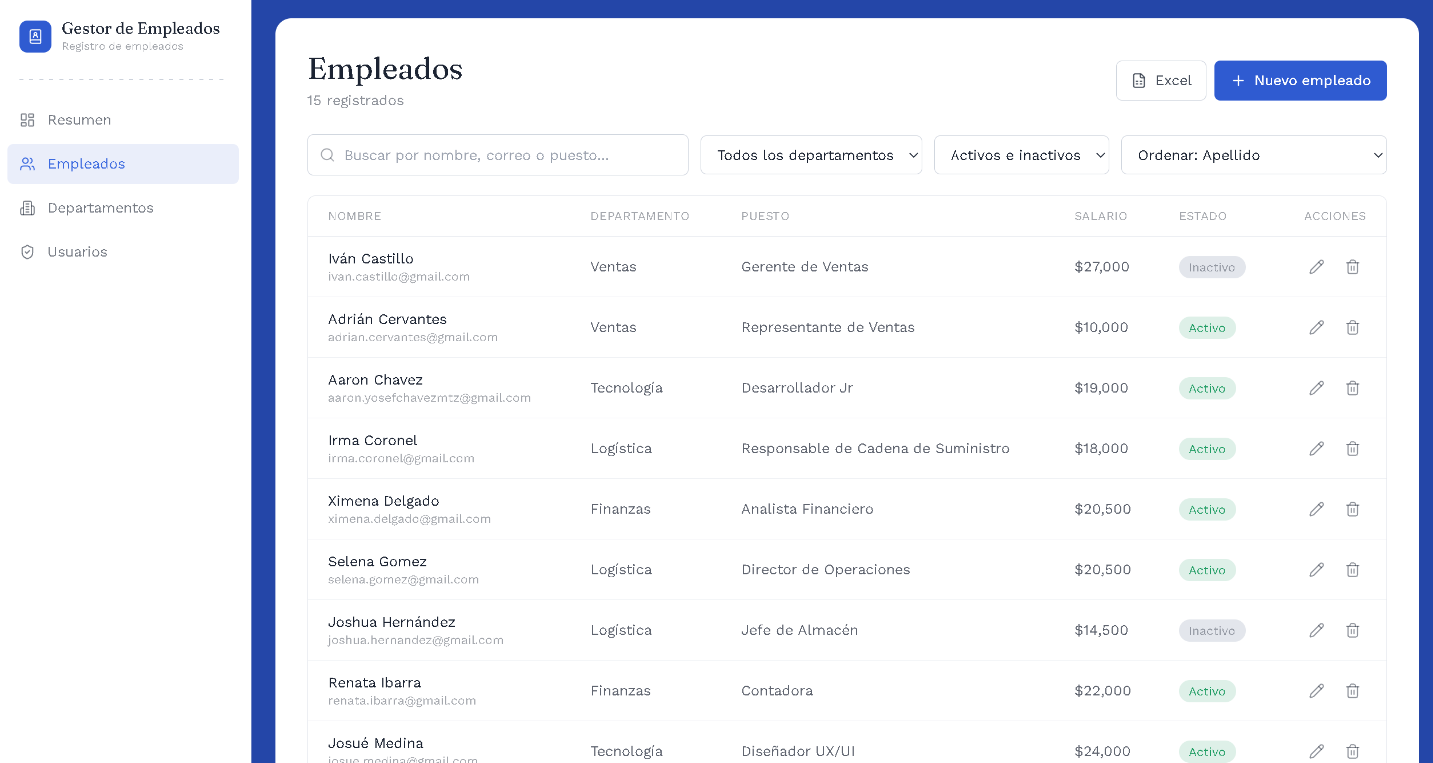
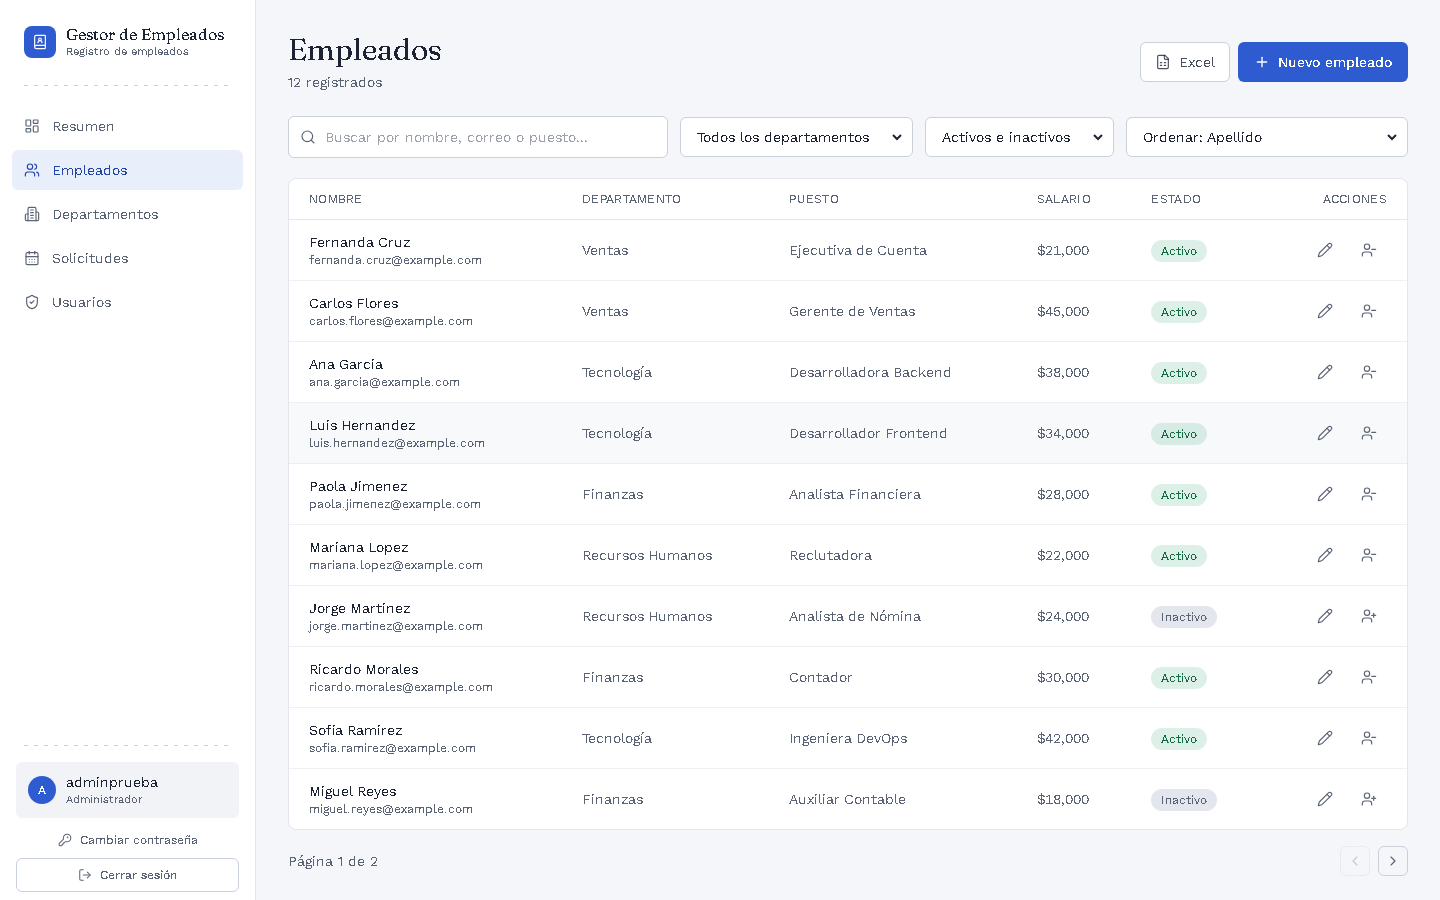
docs: actualiza las capturas del README con la versión actual
- Capturas nuevas de la demo publicada (diseño neutro, cuentas de demo
  actuales); las anteriores mostraban la contraseña antigua y el rol
  "Solo lectura".
- Se añaden Solicitudes de ausencia y el portal del empleado (escritorio
  y móvil).
- El correo personal de la cuenta admin aparece difuminado.

diff --git a/README.md b/README.md
@@ -49,13 +49,13 @@ Interfaz web para administrar empleados y departamentos: login con roles, búsqu
 ### Dashboard
 
 <p align="center">
-  <img src="docs/images/resumen.png" width="600" alt="Dashboard con KPIs">
+  <img src="docs/images/resumen.png" width="600" alt="Resumen con plantilla, rotación de 12 meses, antigüedad y gráficas de altas, bajas y nómina">
 </p>
 
 ### Gestión de empleados
 
 <p align="center">
-  <img src="docs/images/empleados.png" width="600" alt="Listado de empleados con filtros">
+  <img src="docs/images/empleados.png" width="600" alt="Listado de empleados con búsqueda, filtros, estado y acciones de editar, dar de baja y recontratar">
 </p>
 
 ### Gestión de departamentos
@@ -64,10 +64,24 @@ Interfaz web para administrar empleados y departamentos: login con roles, búsqu
   <img src="docs/images/departamentos.png" width="600" alt="Gestión de departamentos">
 </p>
 
+### Solicitudes de ausencia (RH)
+
+<p align="center">
+  <img src="docs/images/solicitudes.png" width="600" alt="Bandeja de solicitudes de vacaciones y permisos con acciones de aprobar y rechazar">
+</p>
+
 ### Gestión de usuarios
 
 <p align="center">
-  <img src="docs/images/usuarios.png" width="600" alt="Administración de usuarios y roles">
+  <img src="docs/images/usuarios.png" width="600" alt="Usuarios con rol, empleado vinculado y cuentas protegidas de la demo">
+</p>
+
+### Portal del empleado
+
+<p align="center">
+  <img src="docs/images/portal-ausencias.png" width="600" alt="Mis ausencias: saldo de vacaciones según la LFT, formulario de solicitud y lista de solicitudes">
+  &nbsp;
+  <img src="docs/images/portal-movil.png" width="200" alt="Mis ausencias en un teléfono">
 </p>
 
 ## Funcionalidades
